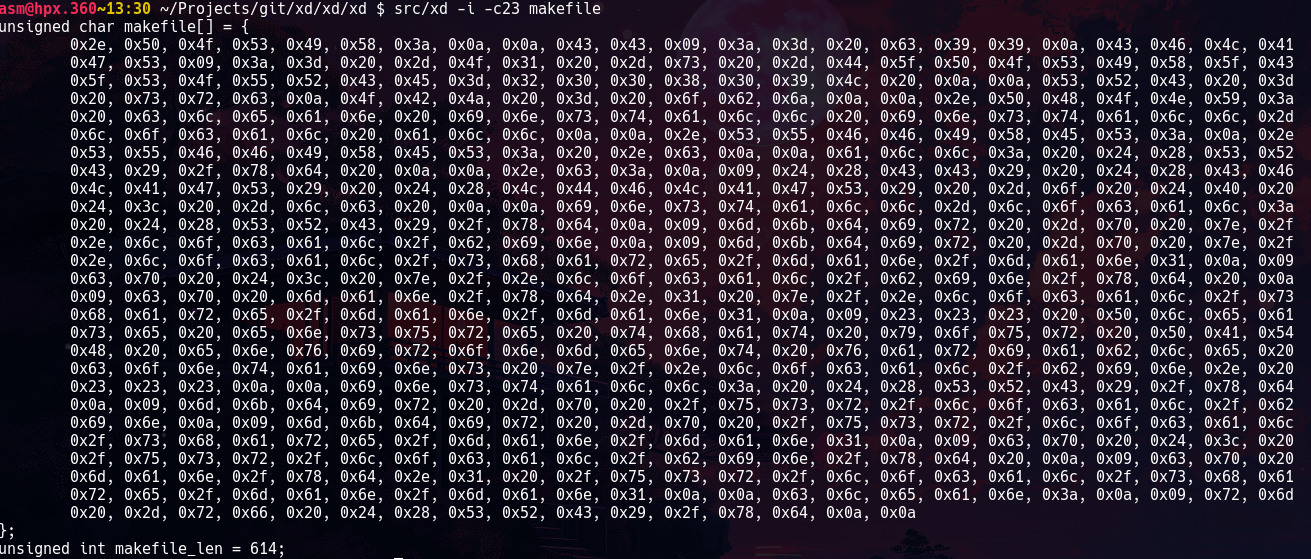
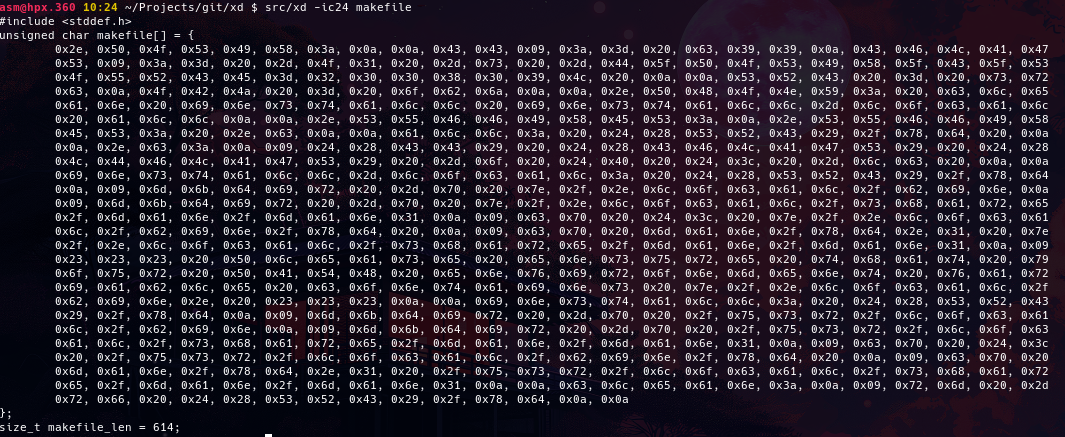
Refactor in system of option `-i`. Changed default output counter type to `size_t`.

diff --git a/src/xd.c b/src/xd.c
@@ -36,24 +36,26 @@
 	"Manual entry shall be avaliable with: `man 1 xd`.\n"								\
 	"Copyright (©) @Arthur de Souza Manske, 2024. All rights reserved.\n"
 
-#define HEXDFL_FORCE_COLUMNS	(0x01)
-#define HEXDFL_FORCE_WORDSIZE	(0x02)
-#define HEXDFL_COLORED		(0x04)
-#define HEXDFL_PLAIN		(0x08)
-#define HEXDFL_BINARY_DUMP	(0x10)
-#define HEXDFL_DECIMAL_COUNT		(0x20)
-#define HEXDFL_C		(0x40)
-#define HEXDFL_UPPER		(0x80)
-#define HEXDFL_NOCOLOR		(0x100)
-#define HEXDFL_AUTONAME		(0x200)
-#define HEXDFL_NOCOUNT		(0x400)
-#define HEXDFL_MASK_COLOR	(HEXDFL_COLORED	| HEXDFL_NOCOLOR)
-#define HEXPFL_BYTE		(0x800)
+#define HEXDFL_FORCE_COLUMNS    (0x01)
+#define HEXDFL_FORCE_WORDSIZE   (0x02)
+#define HEXDFL_COLORED          (0x04)
+#define HEXDFL_PLAIN            (0x08)
+#define HEXDFL_BINARY_DUMP      (0x10)
+#define HEXDFL_DECIMAL_COUNT    (0x20)
+#define HEXDFL_C                (0x40)
+#define HEXDFL_UPPER            (0x80)
+#define HEXDFL_NOCOLOR          (0x100)
+#define HEXDFL_AUTONAME	        (0x200)
+#define HEXDFL_NOCOUNT          (0x400)
+
+#define HEXDFL_COLOR_MASK       (HEXDFL_COLORED	| HEXDFL_NOCOLOR)
+
+#define HEXPFL_BYTE             (0x800)
 
 struct hexdumping {
-	uint16_t hex_flags;
-	int	 hex_columns, hex_wordsize;
-	char	*hex_filename, *hex_dump_separator, *hex_off_separator;
+	uint16_t    hex_flags;
+	int	    hex_columns, hex_wordsize;
+	const char *hex_filename, *hex_dump_separator, *hex_off_separator;
 };
 
 int fpeek(FILE *stream)
@@ -99,6 +101,26 @@ int hexprint(FILE *stream, unsigned char ch, uint16_t flags)
 	return ret;
 }
 
+int fprintcid(const char *restrict s, FILE *restrict stream)
+{
+	if (ferror(stream)) return -1;
+
+	if (isdigit(*s))
+		fputc('_', stream);
+
+	while (*s) {
+		if (!isalnum(*s)) {
+			fputc('_', stream);
+		} else {
+			fputc(*s,  stream);
+		}
+		s++;
+	}
+
+	if (ferror(stream)) return -1;
+	return 0;
+}
+
 int chexdump(FILE *restrict stream, FILE *restrict source, struct hexdumping *restrict hexfl)
 {	
 	int ch;
@@ -106,16 +128,13 @@ int chexdump(FILE *restrict stream, FILE *restrict source, struct hexdumping *re
 	uintmax_t totalbytes = 0;
 
 	if (hexfl->hex_filename) {
-		if (hexfl->hex_filename[0] == '-' && !hexfl->hex_filename[1]) {
-			hexfl->hex_filename = "stdin";
-		} else {
-			for (i = 0; hexfl->hex_filename[i]; ++i) {
-				if ((i == 0 && isdigit(hexfl->hex_filename[i])) || !isalnum(hexfl->hex_filename[i]))
-					hexfl->hex_filename[i] = '_';
-			}
+		if (strcmp(hexfl->hex_filename, "-") == 0) {
+			hexfl->hex_filename = "standard input";
 		}
 
-		fprintf(stream, "unsigned char %s[] = {\n\t", hexfl->hex_filename);
+		fputs("#include <stddef.h>\nunsigned char ", stream);
+		fprintcid(hexfl->hex_filename, stream);
+		fputs("[] = {\n\t", stream);
 	}
 
 	while (((ch = fgetc(source))) != EOF) {
@@ -135,8 +154,13 @@ int chexdump(FILE *restrict stream, FILE *restrict source, struct hexdumping *re
 
 	if (ferror(stream) || ferror(source)) return -1;
 	
-	if (hexfl->hex_filename) fprintf(stream, "\n};\nunsigned int %s_len = %ju;", hexfl->hex_filename, totalbytes); 
-	if (hexfl->hex_filename || (totalbytes % hexfl->hex_columns) != 0) fputc('\n', stream);
+	if (hexfl->hex_filename) {
+		fputs("\n};\nsize_t ", stream);
+		fprintcid(hexfl->hex_filename, stream);
+		fprintf(stream, "_len = %ju;\n", totalbytes);
+	} else if ((totalbytes % hexfl->hex_columns) != 0) {
+		fputc('\n', stream);
+	}
 
 	return 0;
 }
@@ -231,7 +255,7 @@ int main(int argc, char **argv)
 	struct hexdumping *hexfl = & (struct hexdumping) {.hex_dump_separator = " ", .hex_off_separator = ": "};
 
 	opterr = 0;
-	while ((ch = getopt(argc, argv, ":DK:L:OR:bc:dig:n:pru")) != -1) {
+	while ((ch = getopt(argc, argv, ":DK:L:OR:bc:dig:n:pu")) != -1) {
 		switch (ch) {
 		case '?':
 			if (optopt == '?') {
@@ -252,12 +276,12 @@ int main(int argc, char **argv)
 		case 'O': hexfl->hex_flags &= ~HEXDFL_NOCOUNT; break;
 		case 'R':
 			if (strcasecmp("auto", optarg) == 0) {
-				hexfl->hex_flags &= ~HEXDFL_MASK_COLOR;
+				hexfl->hex_flags &= ~HEXDFL_COLOR_MASK;
 			} else if (strcasecmp("always", optarg) == 0) {
-				hexfl->hex_flags &= ~HEXDFL_MASK_COLOR;
+				hexfl->hex_flags &= ~HEXDFL_COLOR_MASK;
 				hexfl->hex_flags |= HEXDFL_COLORED;
 			} else if (strcasecmp("never", optarg) == 0) {
-				hexfl->hex_flags &= ~HEXDFL_MASK_COLOR;
+				hexfl->hex_flags &= ~HEXDFL_COLOR_MASK;
 				hexfl->hex_flags |= HEXDFL_NOCOLOR;
 			}
 
@@ -297,14 +321,14 @@ int main(int argc, char **argv)
 			hexfl->hex_flags |= HEXDFL_AUTONAME;
 			break;
 		case 'p':
-			hexfl->hex_flags &= ~(HEXDFL_C | HEXDFL_MASK_COLOR);
+			hexfl->hex_flags &= ~(HEXDFL_C | HEXDFL_COLOR_MASK);
 			hexfl->hex_flags |= (HEXDFL_NOCOUNT | HEXDFL_PLAIN | HEXDFL_NOCOLOR);
 			break;
 		case 'u': hexfl->hex_flags |= HEXDFL_UPPER; break;
 		}
 	}
 	
-	if (!(hexfl->hex_flags & HEXDFL_MASK_COLOR) && isatty(STDOUT_FILENO) && !getenv("$NO_COLOR")) 
+	if (!(hexfl->hex_flags & HEXDFL_COLOR_MASK) && isatty(STDOUT_FILENO) && !getenv("$NO_COLOR")) 
 		hexfl->hex_flags |= HEXDFL_COLORED;
 
 	if (!argv[optind]) argv[optind] = "-";
@@ -312,9 +336,10 @@ int main(int argc, char **argv)
 	do {
 		if (argv[optind] && argv[optind][0] == '-' && !argv[optind][1]) {
 			input = stdin;
-		} else if (!(input = fopen(argv[optind], "r"))) {
-			fprintf(stderr, "%s: '%s': Unable to open file: %s (%d).\n", argv[0], argv[optind], strerror(errno), errno);
-			exitcode = EXIT_FAILURE; 
+		} else if (!(input = fopen(argv[optind], "rb"))) {
+		hexerr:	fprintf(stderr, "%s: '%s': Unable to hexdump file: %s (%d).\n", argv[0], argv[optind], strerror(errno), errno);
+			exitcode = EXIT_FAILURE;
+			if (input) fclose(input);
 			continue; 
 		}
 
@@ -328,13 +353,14 @@ int main(int argc, char **argv)
 			fseek(input, 0, SEEK_SET);
 		}
 
-		if (!(hexfl->hex_flags & HEXDFL_AUTONAME)) hexfl->hex_filename = argv[optind];
-		if (hexdump(stdout, input, hexfl) < 0) {
-			fprintf(stderr, "%s: '%s': Unable to hexdump: %s (%d).\n", argv[0], argv[optind], strerror(errno), errno);
-			exitcode = EXIT_FAILURE;
-		}
+		if (!(hexfl->hex_flags & HEXDFL_AUTONAME))
+			hexfl->hex_filename = argv[optind];
 
-		if (input == stdin) fclose(input); 
+		if (hexdump(stdout, input, hexfl) < 0)
+			goto hexerr;
+
+		if (input != stdin)
+			fclose(input); 
 	} while ((++optind) < argc);
 
 	return exitcode;

diff --git a/README.md b/README.md
@@ -19,7 +19,7 @@ make install
 ## Examples
 ![src/xd -c32 -g8 makefile output](styl/example1.png)
 ![src/xd -p makefile output](styl/example2.png)
-![src/xd -i -c23 makefile output](styl/example3.png)
+![src/xd -i -c24 makefile output](styl/example3.png)
 ![src/xd -pO makefile output](styl/example4.png)
 
 ## Author
